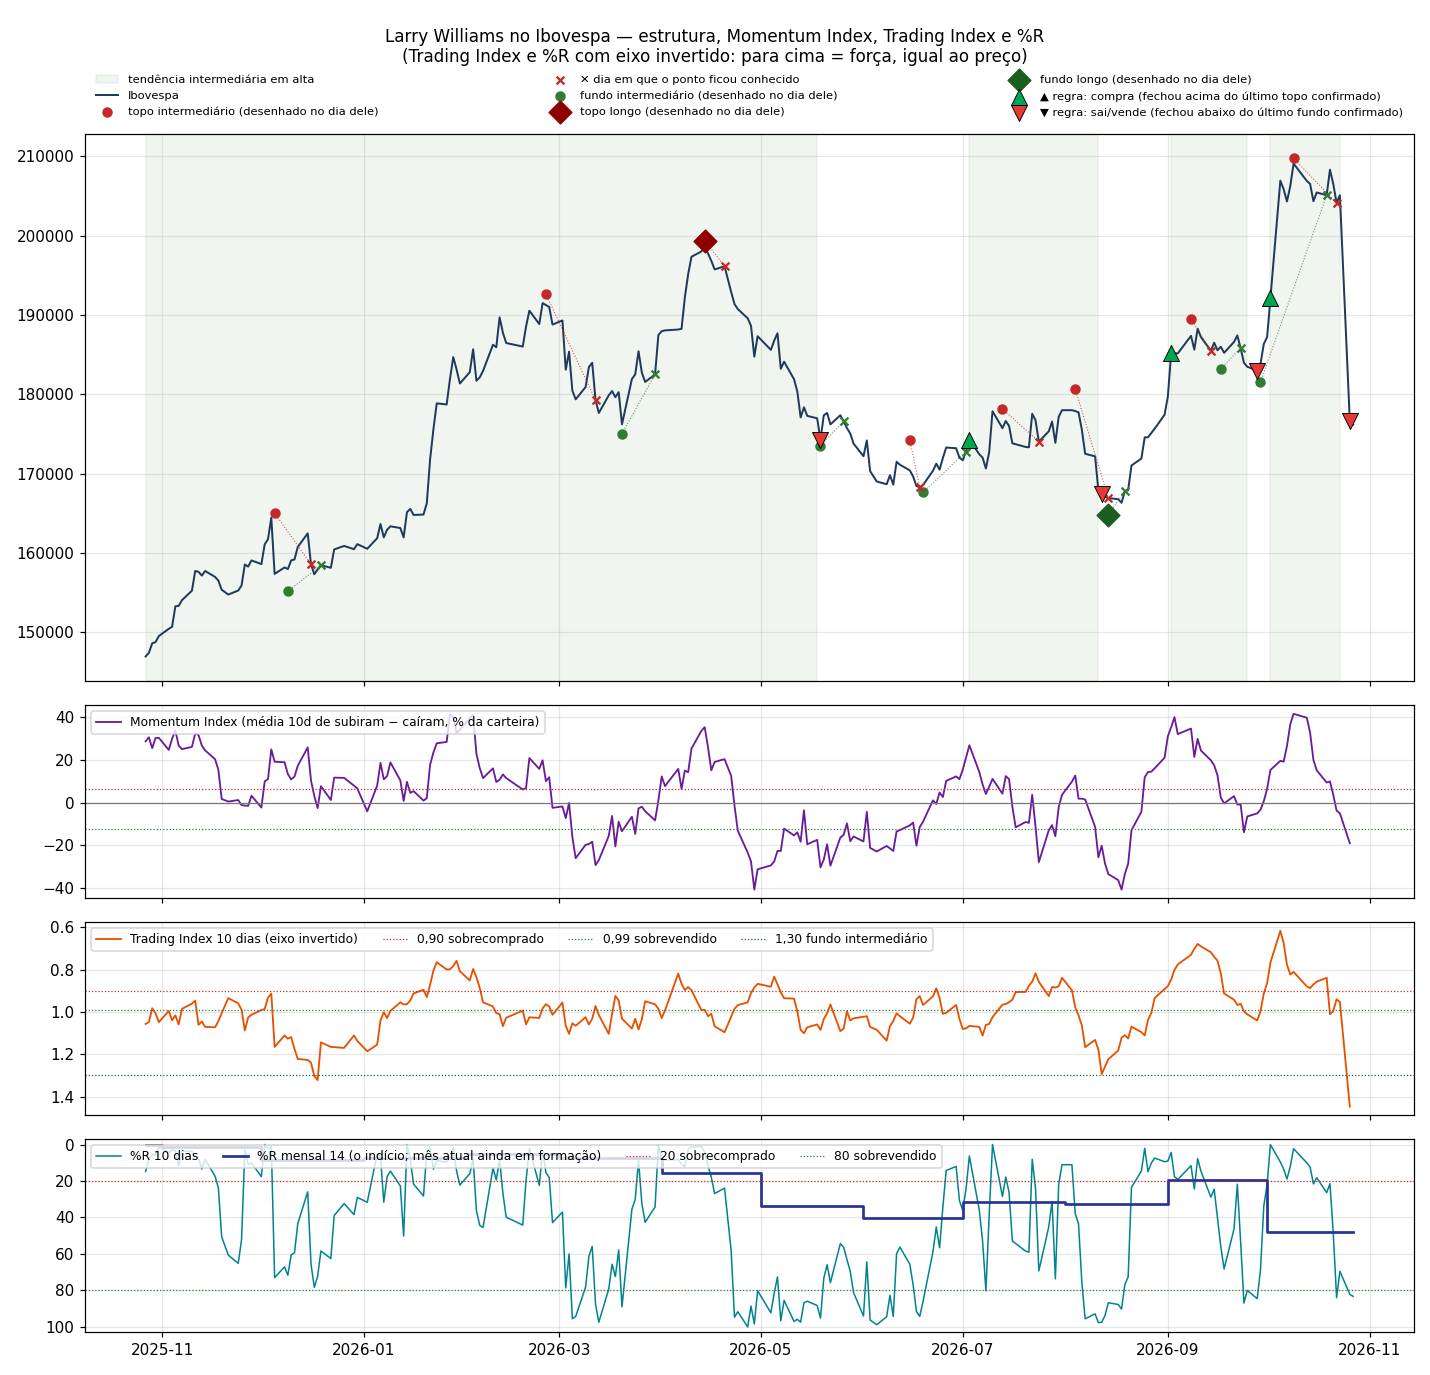
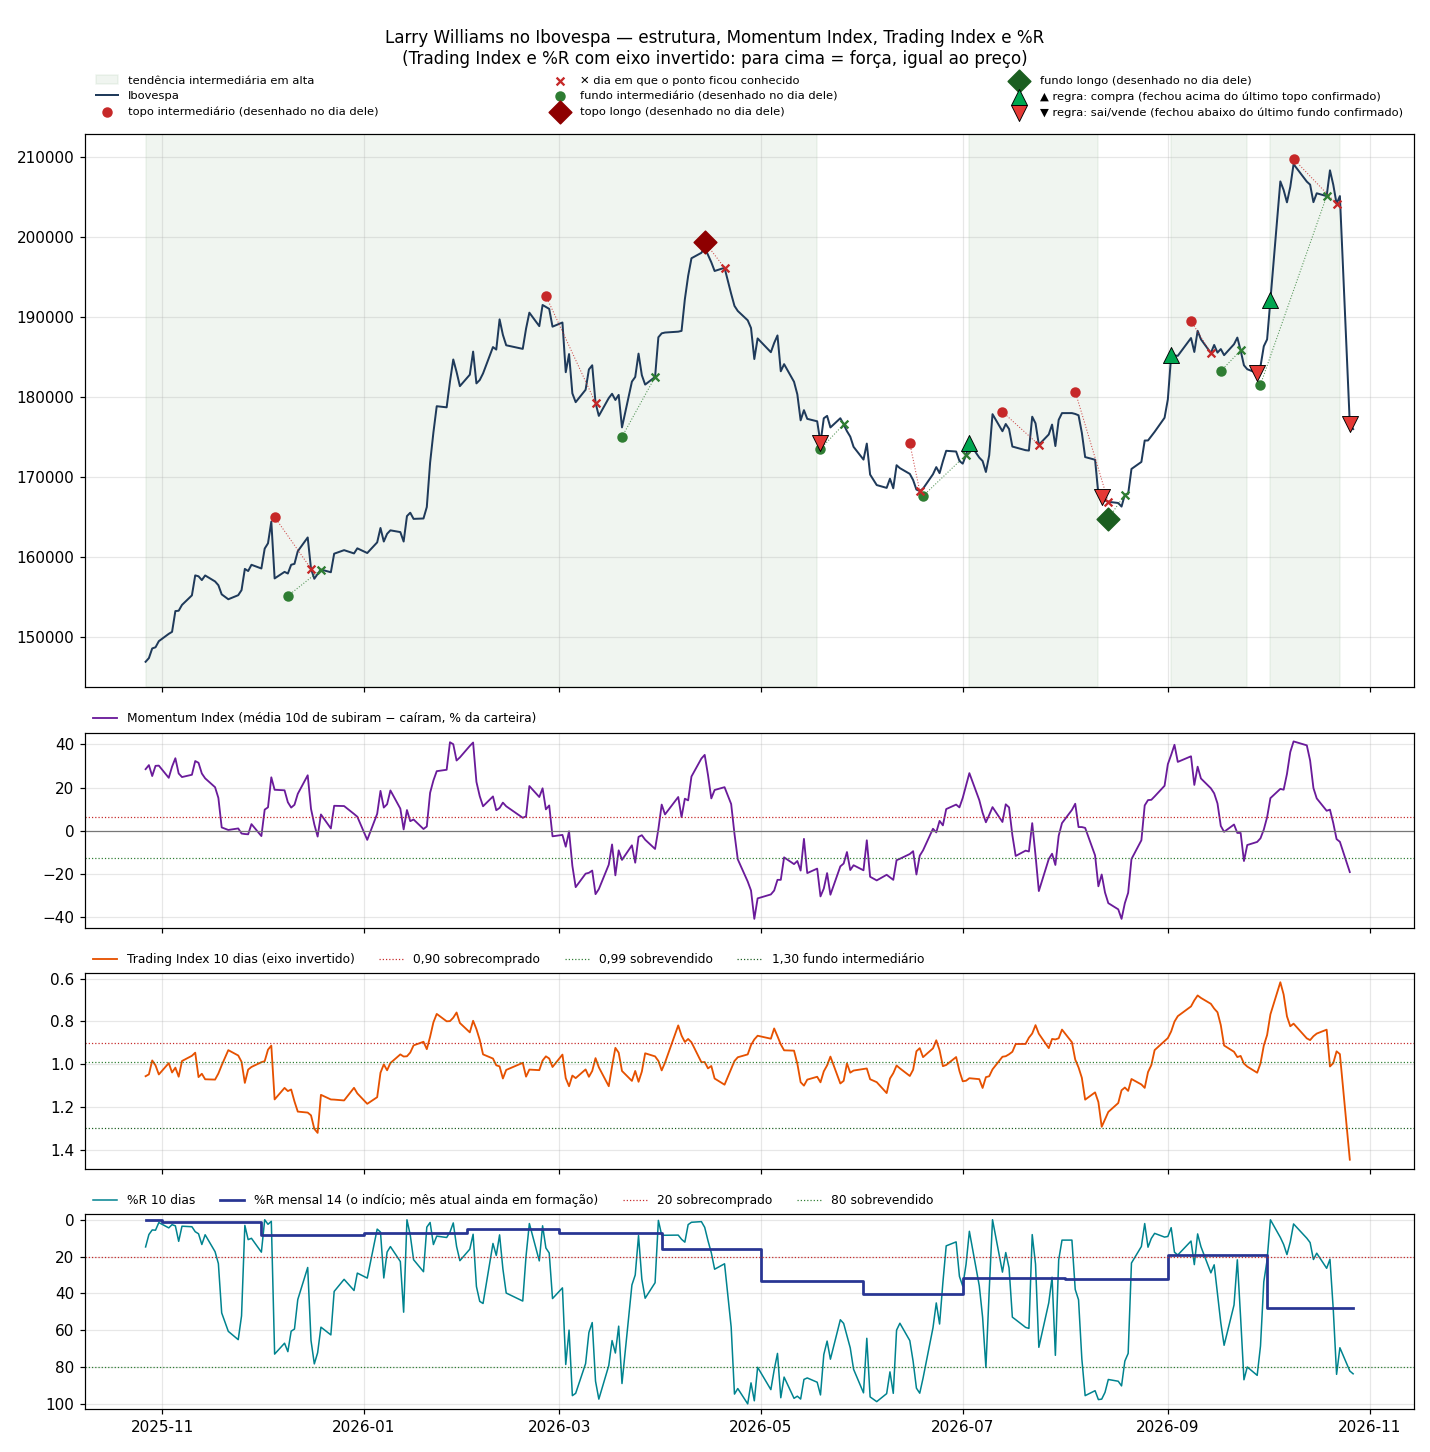
🤖 Auto: Sinal 27/10/2026 15:04

diff --git a/content/larry-williams/index.md b/content/larry-williams/index.md
@@ -5,7 +5,7 @@ description: "Os três prazos de Larry Williams lidos no Ibovespa: estrutura, Mo
 tags: [estudos, amplitude]
 ---
 
-*Atualizado 27/10/2026 14:55 · fechamento de 27/10/2026.*
+*Atualizado 27/10/2026 15:04 · fechamento de 27/10/2026.*
 
 > [!warning] Só informação
 > Leitura diária das ferramentas de **Larry Williams** (livros *The Secret of Selecting Stocks* e *Long-Term Secrets to Short-Term Trading*). **No teste no Ibovespa quase nada funcionou** (tabela abaixo) — nada aqui é regra do site nem manda alerta. O único gatilho que passou no índice, o **rompimento de 40%**, **não se confirmou no WIN**.
@@ -20,7 +20,7 @@ tags: [estudos, amplitude]
 | **Médio** | 20 mais negociadas (soma de 3 semanas) | -20 | ≤ −30 compra · ≤ −40 "hipoteque a casa" |
 | **Curto** | Estrutura: topos/fundos de curto prazo | 🔴 **baixa** | fechamento abaixo de **203.110** = baixa · acima de **209.245** = alta |
 | **Curto** | Momentum Index | —% | neutro · ontem -19,0 · anteontem -5,0 |
-| **Curto** | %R de Williams (10 dias) | 83 | sobrevendido (≥ 80) |
+| **Curto** | %R de Williams (10 dias) | 84 | sobrevendido (≥ 80) |
 | **Curto** | "Espero duas coisas" | nenhuma das duas condições completa | esticado nos últimos 10 pregões + Momentum 2 dias na mesma direção |
 
 > [!example] Rompimento de 40% para o próximo pregão — só leitura (não é regra)
